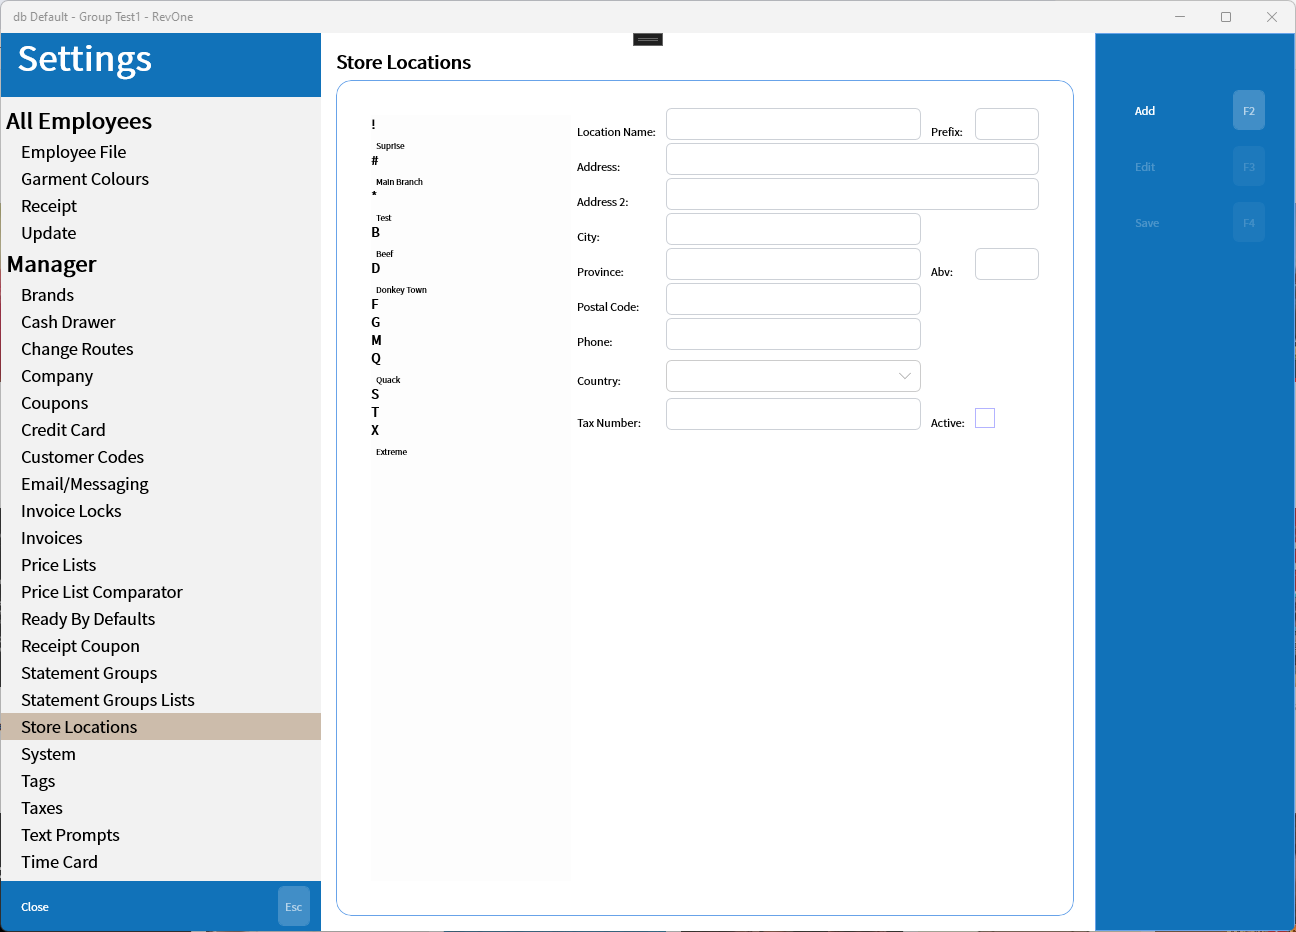
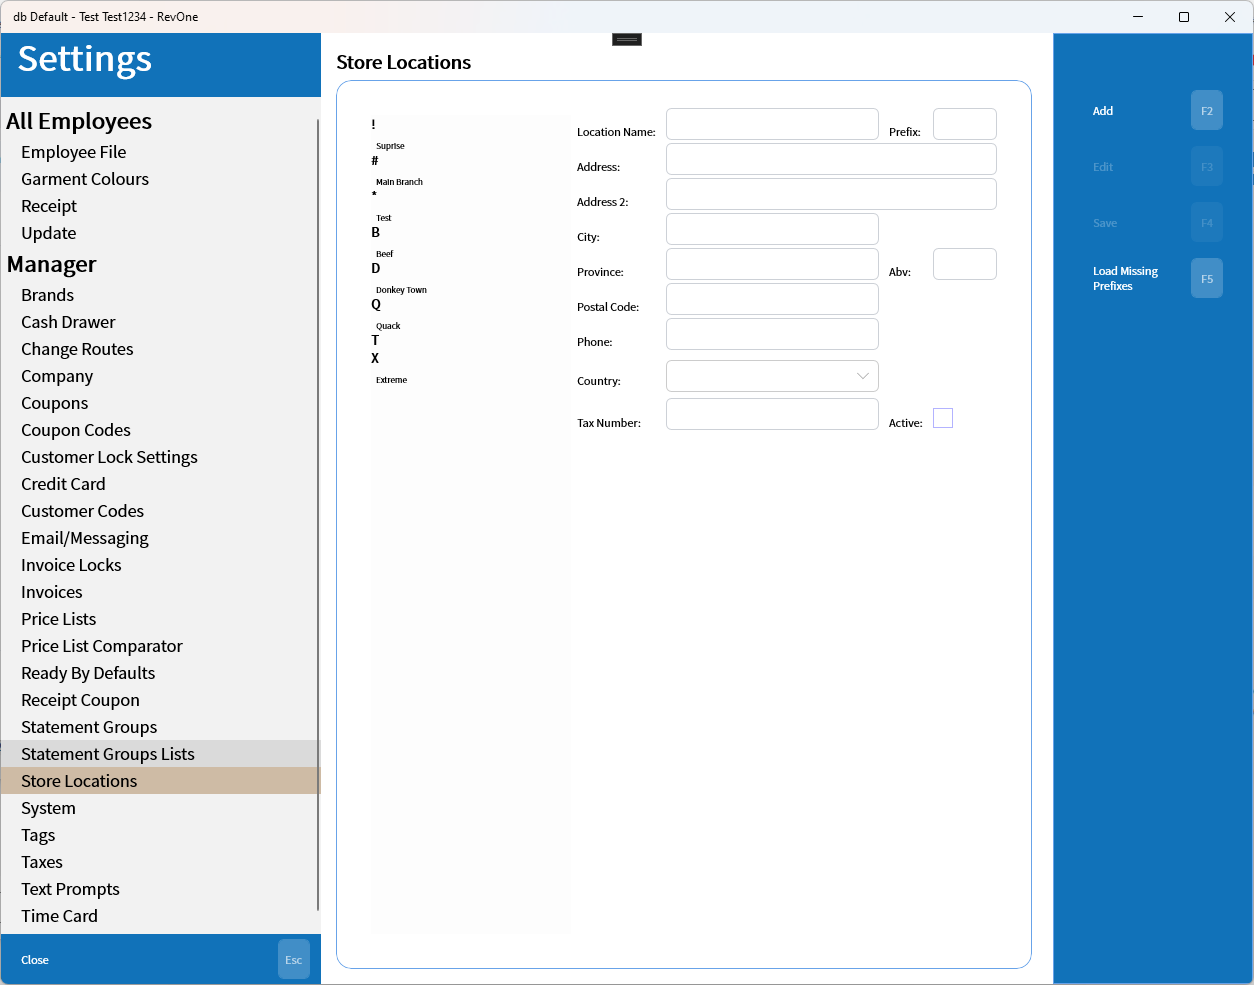
Update Store Locations
#3000

diff --git a/docs/Documentation/Setup/Manager/Store-Locations.md b/docs/Documentation/Setup/Manager/Store-Locations.md
@@ -1,5 +1,10 @@
 # Store Locations
+<span style="font-size:.8rem;opacity:.8">Updated 2024-05-31 version 0.3.1071</span>
 
 Allows store locations to be linked to prefixes and the addresses and other info stored for use in reports and messages.
 
 ![Store Locations](../../../.attachments/Documentation/StoreLocations.png "Store Locations")
+
+## Load Missing Prefixes
+
+Sometimes there will be invoices with prefixes that haven't been added to the list of store locations. This button will fetch the missing prefixes to add to the list. This can take a while as it needs to check every invoice in the system but once the new stores have been saved it shouldn't need to be run again.
